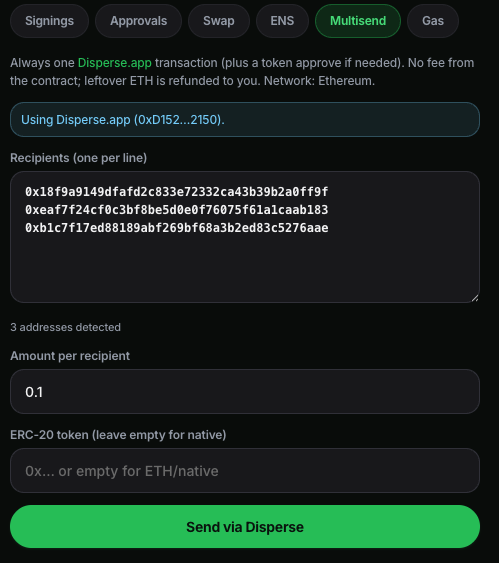
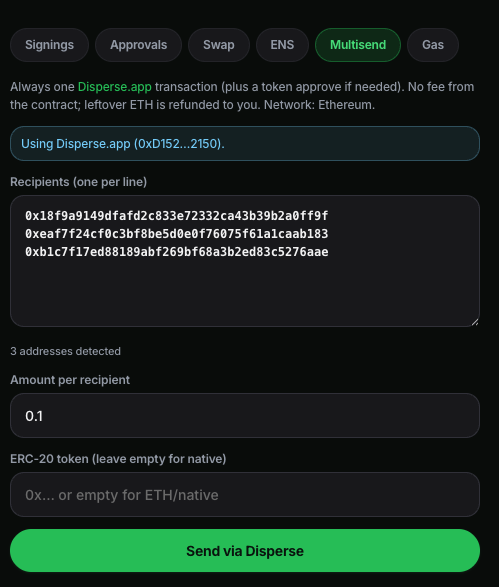
Give landing screenshots room in the frames and a clearer testnets picker.

diff --git a/website/src/lib/site.ts b/website/src/lib/site.ts
@@ -84,9 +84,9 @@ export const PRODUCT_FEATURES: ProductFeature[] = [
       {
         src: '/screenshots/features/testnets.png',
         width: 508,
-        height: 560,
+        height: 562,
         caption: 'Sepolia, Base Sepolia, Arbitrum Sepolia, Amoy: same picker as mainnet.',
-        alt: 'Testnets chain picker open on Sepolia with Base Sepolia, Arbitrum Sepolia, and other testnets listed',
+        alt: 'Testnets chain picker open on Sepolia with Robinhood Testnet, Base Sepolia, and other testnets listed',
       },
     ],
   },
@@ -99,8 +99,8 @@ export const PRODUCT_FEATURES: ProductFeature[] = [
     shots: [
       {
         src: '/screenshots/features/networks-rank.png',
-        width: 494,
-        height: 674,
+        width: 504,
+        height: 685,
         caption: 'Chain list. This order is the chain dropdown on Assets. Active stays marked.',
         alt: 'Networks list with reorder handles, Ethereum active, and chains ordered Ethereum, Robinhood Chain, Base, HyperEVM',
       },
@@ -138,8 +138,8 @@ export const PRODUCT_FEATURES: ProductFeature[] = [
     shots: [
       {
         src: '/screenshots/features/approvals.png',
-        width: 493,
-        height: 389,
+        width: 533,
+        height: 429,
         caption: 'Token, spender, last transaction, remaining allowance.',
         alt: 'Approvals tool listing token allowances with Revoke buttons and spender addresses',
       },
@@ -177,8 +177,8 @@ export const PRODUCT_FEATURES: ProductFeature[] = [
       },
       {
         src: '/screenshots/features/ens-manage.png',
-        width: 479,
-        height: 589,
+        width: 507,
+        height: 605,
         caption: 'Names you own, expiry, IPFS or bzz content hash, URL text record, extend one year.',
         alt: 'ENS tool showing swarmt3.eth with content hash, URL text record, and Extend 1 year',
       },
@@ -194,7 +194,7 @@ export const PRODUCT_FEATURES: ProductFeature[] = [
       {
         src: '/screenshots/features/multisend.png',
         width: 499,
-        height: 563,
+        height: 587,
         caption: 'Recipients, amount per address, optional ERC-20. Uses Disperse.app.',
         alt: 'Multisend tool using Disperse.app with three recipient addresses and amount per recipient',
       },
@@ -280,8 +280,8 @@ export const PRODUCT_FEATURES: ProductFeature[] = [
     shots: [
       {
         src: '/screenshots/features/burner.png',
-        width: 494,
-        height: 652,
+        width: 522,
+        height: 676,
         caption: 'Gates for unlimited approvals, unknown calls, high-value sends, permits, and domain mismatches. Fully ungate is optional.',
         alt: 'Burner Mode settings with gates for unlimited approvals, unknown calls, high-value sends, permits, and domain mismatches',
       },

diff --git a/website/src/components/ScreenshotGallery.tsx b/website/src/components/ScreenshotGallery.tsx
@@ -125,7 +125,7 @@ export function ScreenshotGallery() {
                               }
                             >
                               <Image
-                                src={`${item.src}?v=5`}
+                                src={`${item.src}?v=8`}
                                 alt={item.alt}
                                 width={item.width}
                                 height={item.height}
@@ -176,7 +176,7 @@ export function ScreenshotGallery() {
             <div className="relative max-h-[78vh] w-full max-w-3xl overflow-auto">
               <TerminalFrame title={frameTitleFromSrc(shot.src)}>
                 <Image
-                  src={`${shot.src}?v=5`}
+                  src={`${shot.src}?v=8`}
                   alt={shot.alt}
                   width={shot.width}
                   height={shot.height}
